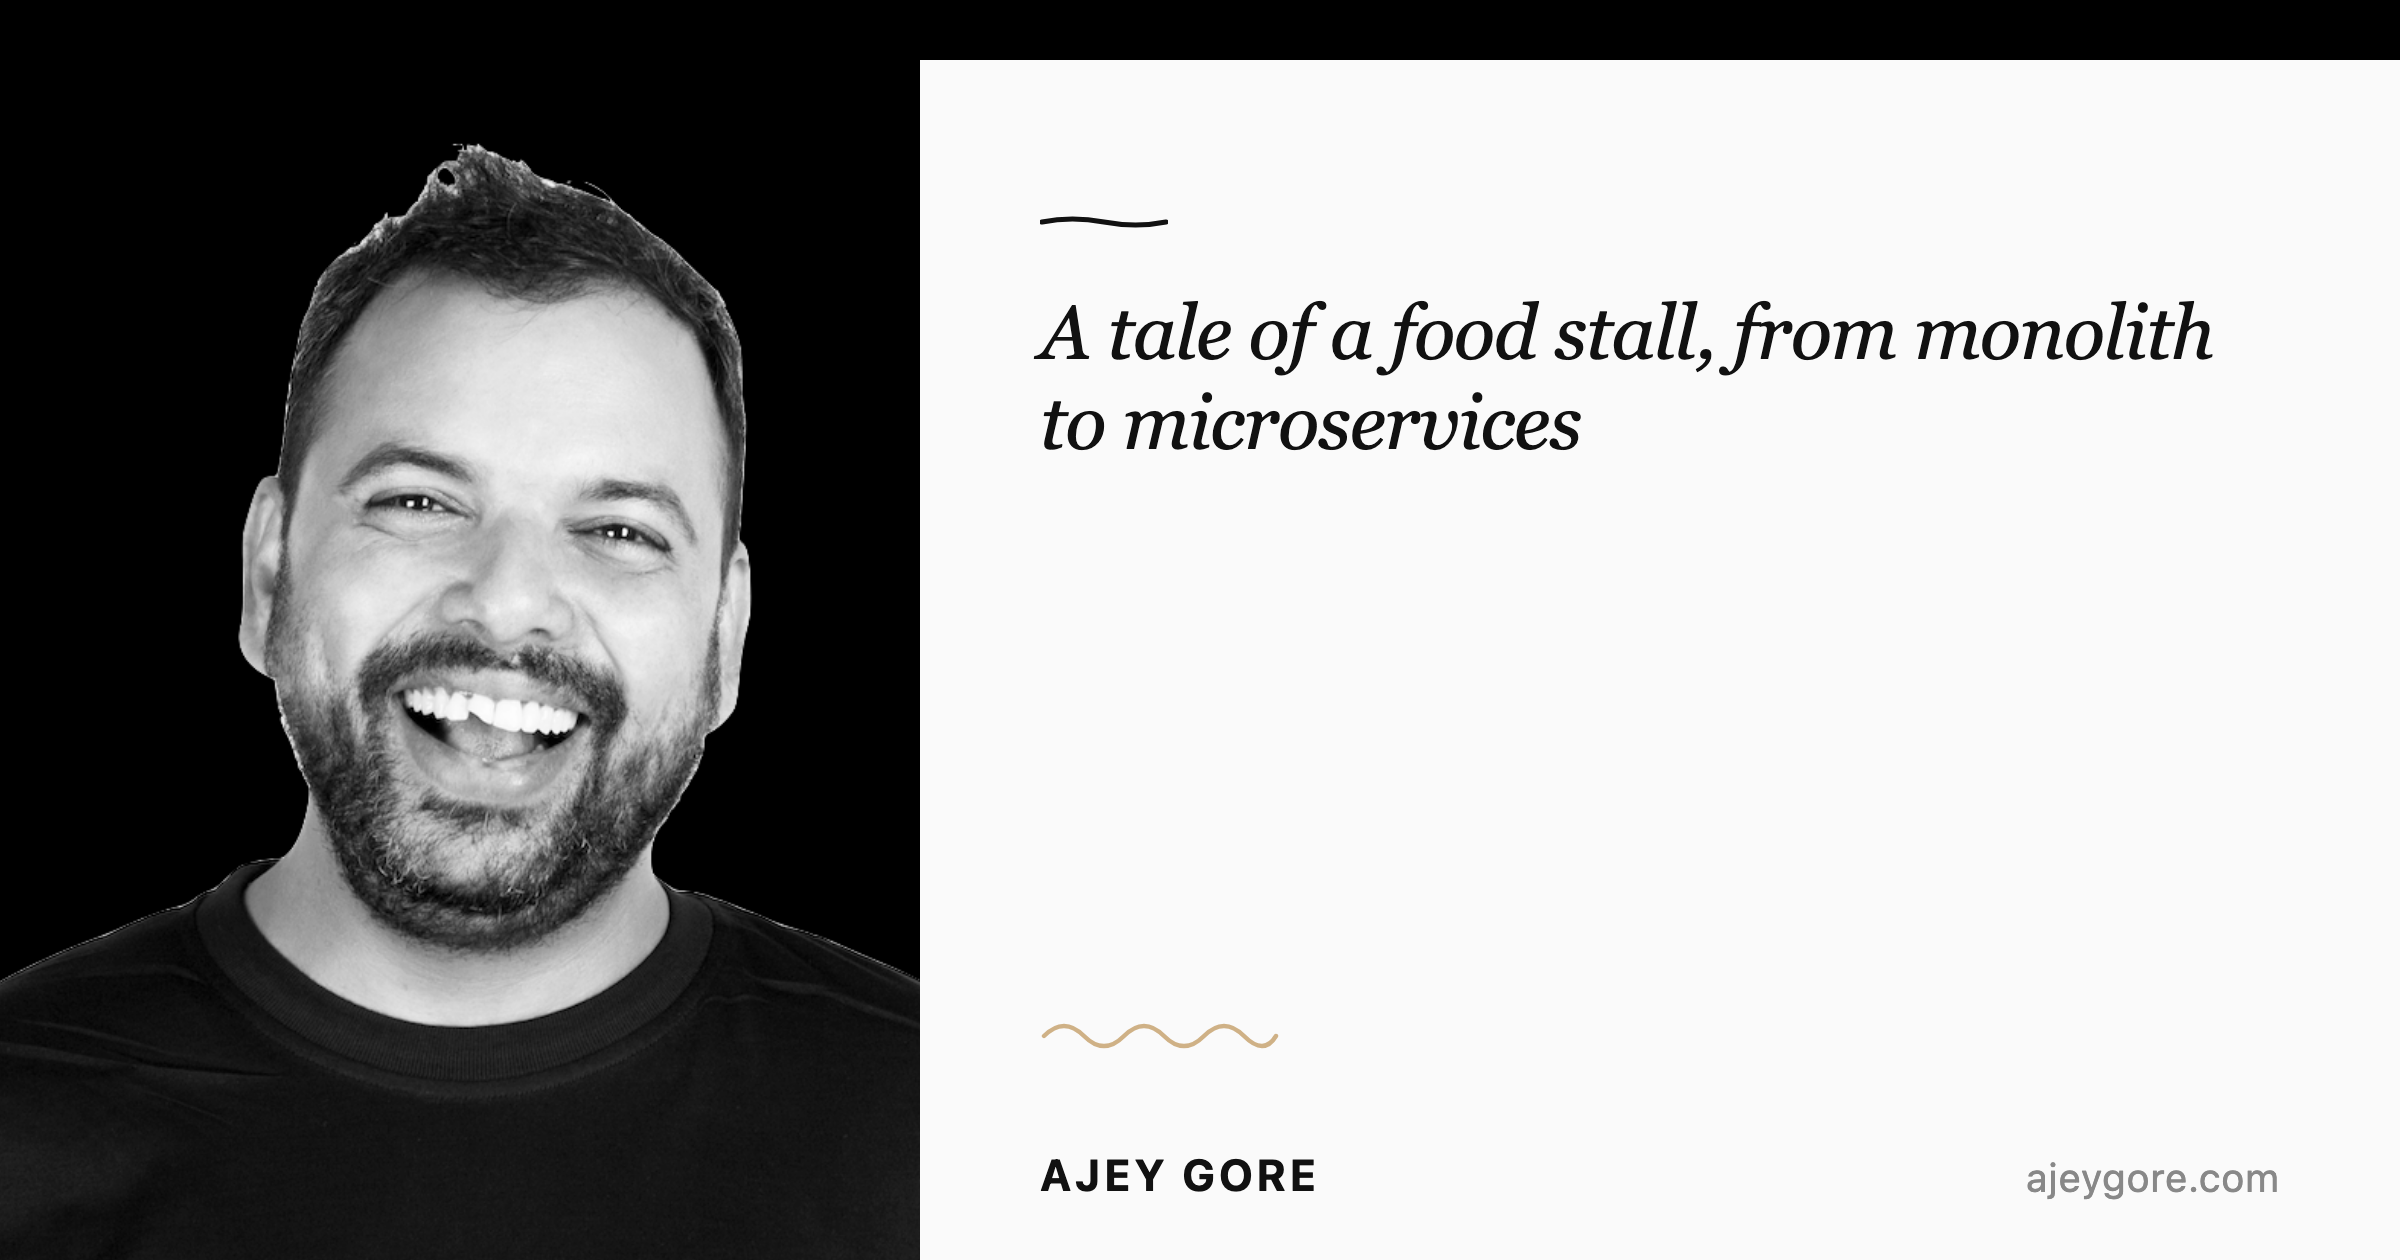
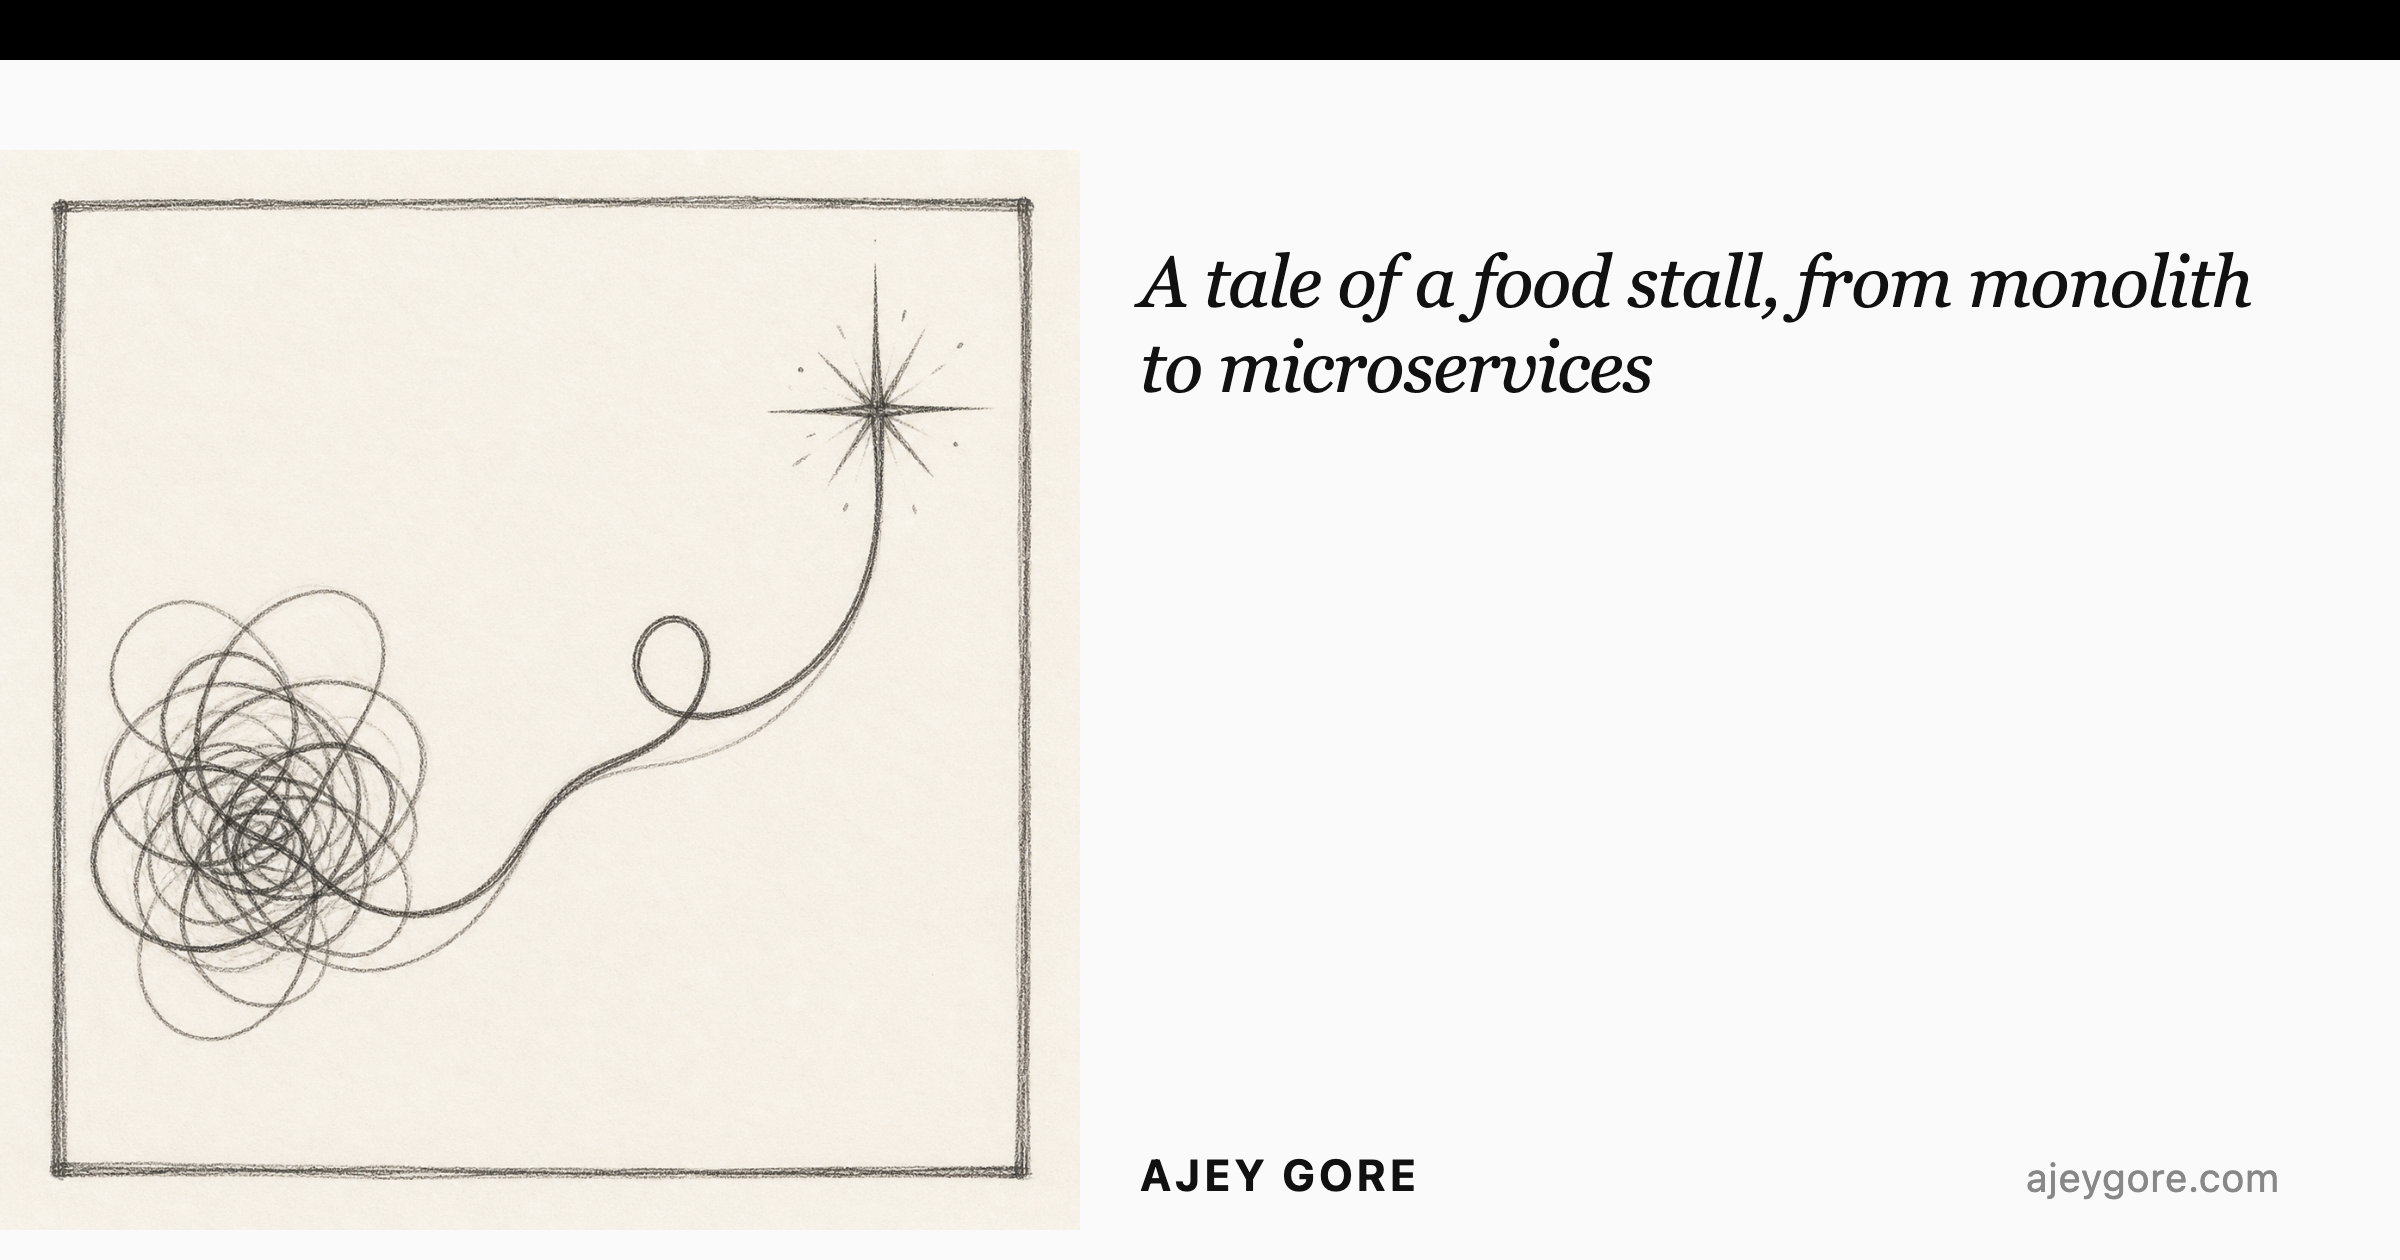
Use blog sketch as the OG card visual; regenerate all cards
Replaces the headshot+squiggle on the auto-generated cards with
blog_sketch.png (a hand-drawn scribble-to-star motif). Widen the
left panel to 540px and let the sketch sit as a contained square so
its border stays intact, then drop the now-redundant decorative
squiggle on the right.

diff --git a/_data/og_template.html b/_data/og_template.html
@@ -6,17 +6,15 @@
   *{margin:0;padding:0;box-sizing:border-box;}
   html,body{width:1200px;height:630px;overflow:hidden;background:#fafafa;}
   .card{position:relative;width:1200px;height:630px;background:#fafafa;font-family:Georgia,'Times New Roman',serif;}
-  .left{position:absolute;top:0;left:0;width:460px;height:630px;background:#000;overflow:hidden;}
-  .left img{width:100%;height:100%;object-fit:cover;object-position:center 28%;display:block;}
-  .right{position:absolute;top:0;left:460px;width:740px;height:630px;}
-  .top{position:absolute;top:78px;left:60px;right:60px;}
-  .divider{display:block;width:64px;height:auto;margin-bottom:30px;}
+  .left{position:absolute;top:0;left:0;width:540px;height:630px;display:flex;align-items:center;justify-content:center;}
+  .left img{width:540px;height:540px;object-fit:contain;display:block;}
+  .right{position:absolute;top:0;left:540px;width:660px;height:630px;}
+  .top{position:absolute;top:90px;left:30px;right:60px;}
   .title{color:#111;font-style:italic;font-weight:400;letter-spacing:-0.012em;}
-  .title.s1{font-size:64px;line-height:1.1;}
-  .title.s2{font-size:50px;line-height:1.14;}
-  .title.s3{font-size:38px;line-height:1.18;}
-  .squiggle{position:absolute;left:60px;bottom:128px;width:120px;height:auto;opacity:0.85;}
-  .bot{position:absolute;bottom:60px;left:60px;right:60px;display:flex;justify-content:space-between;align-items:flex-end;}
+  .title.s1{font-size:62px;line-height:1.1;}
+  .title.s2{font-size:48px;line-height:1.14;}
+  .title.s3{font-size:36px;line-height:1.18;}
+  .bot{position:absolute;bottom:60px;left:30px;right:60px;display:flex;justify-content:space-between;align-items:flex-end;}
   .name{color:#111;font-weight:700;font-size:22px;font-family:-apple-system,BlinkMacSystemFont,'Helvetica Neue',Helvetica,Arial,sans-serif;letter-spacing:0.1em;text-transform:uppercase;font-style:normal;}
   .url{color:#888;font-size:20px;font-family:-apple-system,BlinkMacSystemFont,'Helvetica Neue',Helvetica,Arial,sans-serif;letter-spacing:0.04em;font-style:normal;}
 </style>
@@ -25,15 +23,7 @@
   <div class="card">
     <div class="left"><img src="{{IMAGE_PATH}}" alt=""/></div>
     <div class="right">
-      <div class="top">
-        <svg class="divider" viewBox="0 0 64 6" xmlns="http://www.w3.org/2000/svg" preserveAspectRatio="none">
-          <path d="M1 3 Q 16 0 32 3 T 63 3" fill="none" stroke="#111" stroke-width="2.5" stroke-linecap="round"/>
-        </svg>
-        <div class="title {{TITLE_CLASS}}">{{TITLE}}</div>
-      </div>
-      <svg class="squiggle" viewBox="0 0 120 28" xmlns="http://www.w3.org/2000/svg">
-        <path d="M2 14 Q 12 4 22 14 T 42 14 T 62 14 T 82 14 T 102 14 T 118 14" fill="none" stroke="#c8a572" stroke-width="2.2" stroke-linecap="round"/>
-      </svg>
+      <div class="top"><div class="title {{TITLE_CLASS}}">{{TITLE}}</div></div>
       <div class="bot">
         <div class="name">Ajey Gore</div>
         <div class="url">ajeygore.com</div>

diff --git a/_scripts/generate_og_cards.rb b/_scripts/generate_og_cards.rb
@@ -16,7 +16,7 @@ ROOT = File.expand_path('..', __dir__)
 POSTS_DIR = File.join(ROOT, 'collections', '_posts')
 OUT_DIR = File.join(ROOT, 'assets', 'images', 'blog', 'og')
 TEMPLATE = File.join(ROOT, '_data', 'og_template.html')
-PHOTO = File.join(ROOT, 'assets', 'images', 'ajey_bw.png')
+PHOTO = File.join(ROOT, 'assets', 'images', 'blog_sketch.png')
 CHROME = '/Applications/Google Chrome.app/Contents/MacOS/Google Chrome'
 
 class OgCardGenerator
